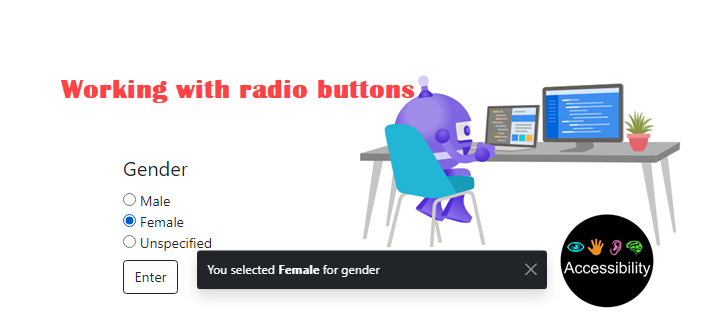
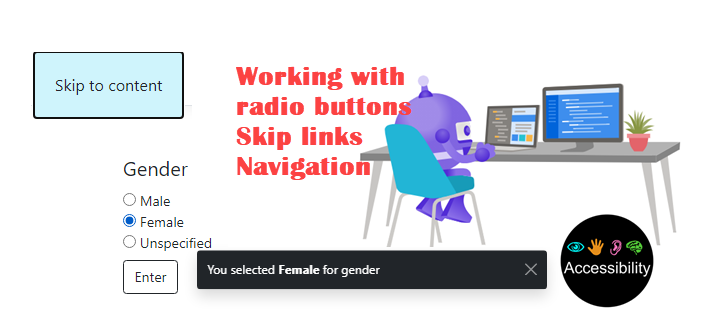
fixing github screwup, updated readme

Changed region(s): [[0.0305, 0.1502, 0.5798, 0.4505], [0.3051, 0.4805, 0.5187, 0.5405]]

diff --git a/RadioButtonsExample/wwwroot/js/site.js b/RadioButtonsExample/wwwroot/js/site.js
@@ -2,3 +2,18 @@
 // for details on configuring this project to bundle and minify static web assets.
 
 // Write your JavaScript code.
+document.addEventListener('DOMContentLoaded', () => {
+
+    document.querySelectorAll('.nav-link').forEach(link => {
+
+        link.classList.remove('text-dark');
+        link.classList.remove('bg-primary');
+
+        if (link.getAttribute('href').toLowerCase() === location.pathname.toLowerCase()) {
+            link.classList.add('text-white');
+            link.classList.add('bg-primary');
+        } else {
+            link.classList.add('text-dark');
+        }
+    });
+})

diff --git a/readme.md b/readme.md
@@ -2,4 +2,15 @@
 
 ![Title](assets/title.png)
 
-## Introduction
+## Article
+
+[Location](https://dev.to/karenpayneoregon/tips-on-making-a-web-site-accessible-part-1-5e8b)
+
+- Tip/technques
+    - Skip links
+    - Navigation
+    - Working with radio buttons
+
+## Requires
+
+Microsoft Visual Studio 2022 or greater
